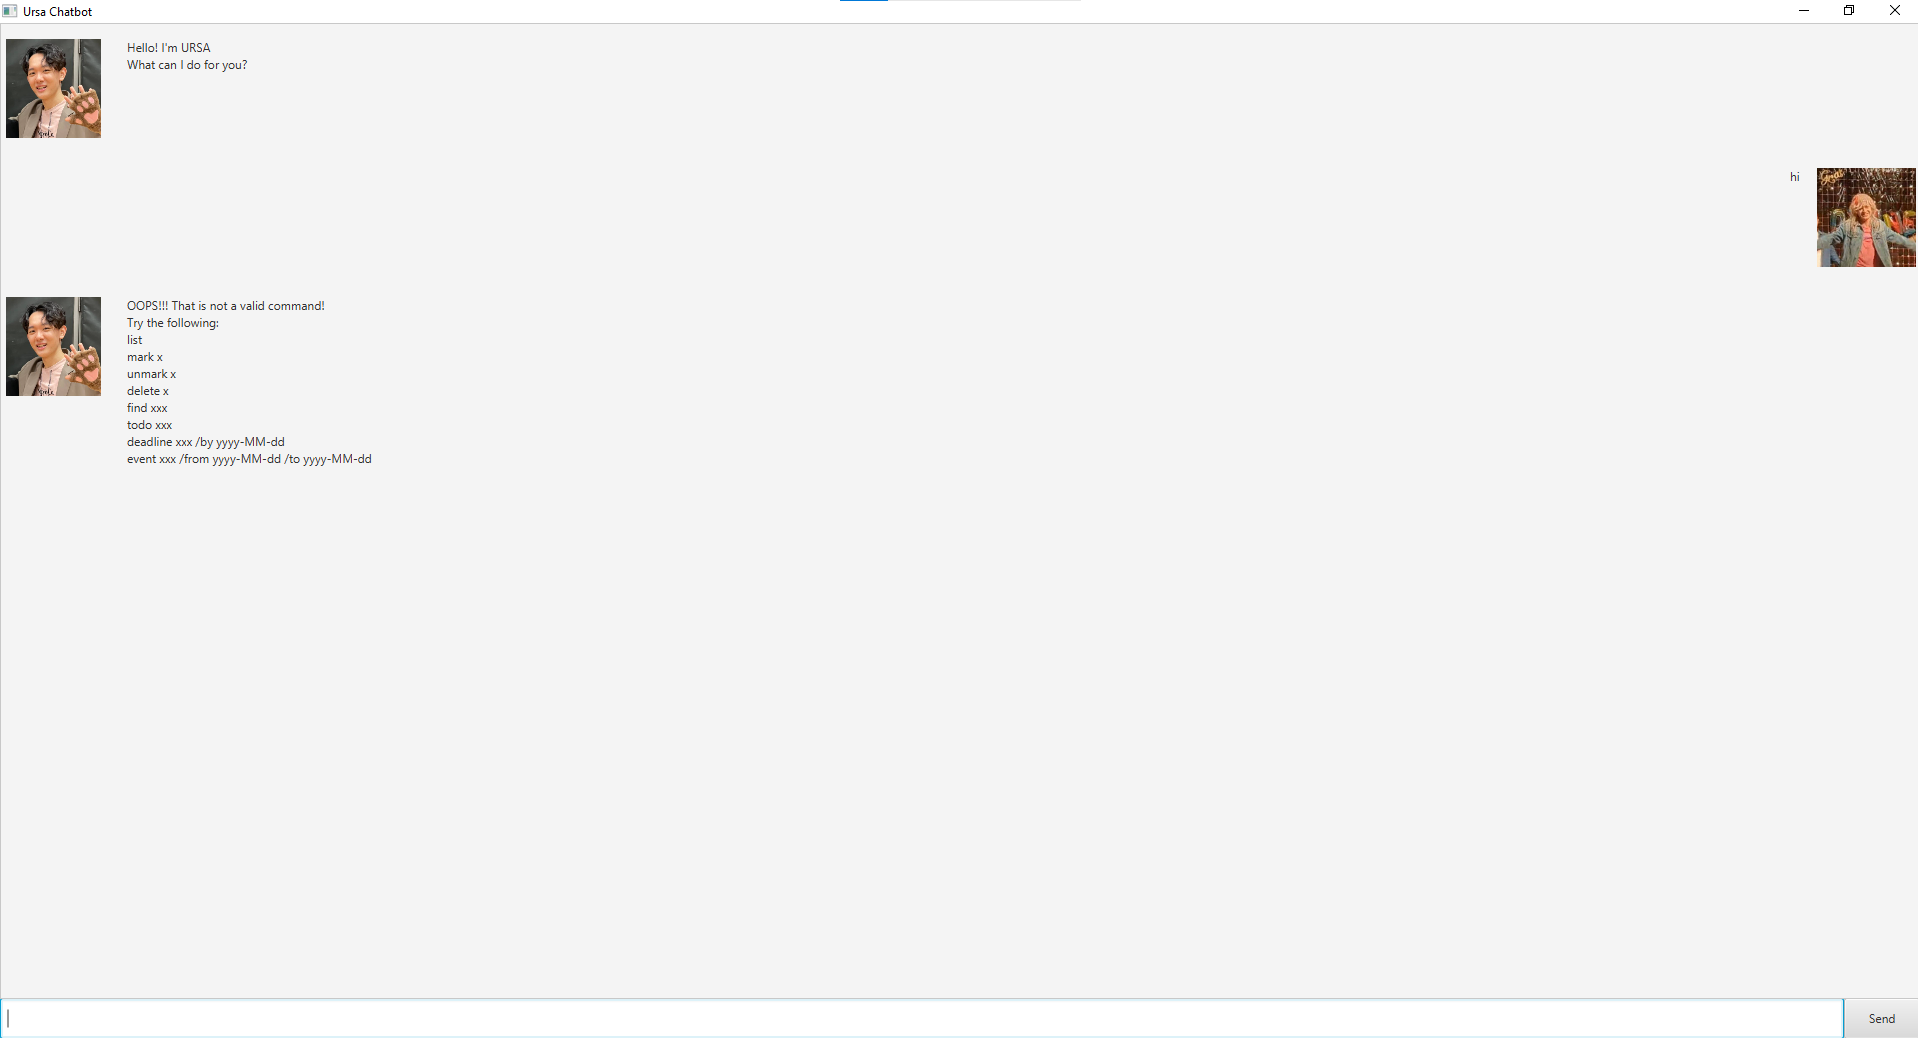
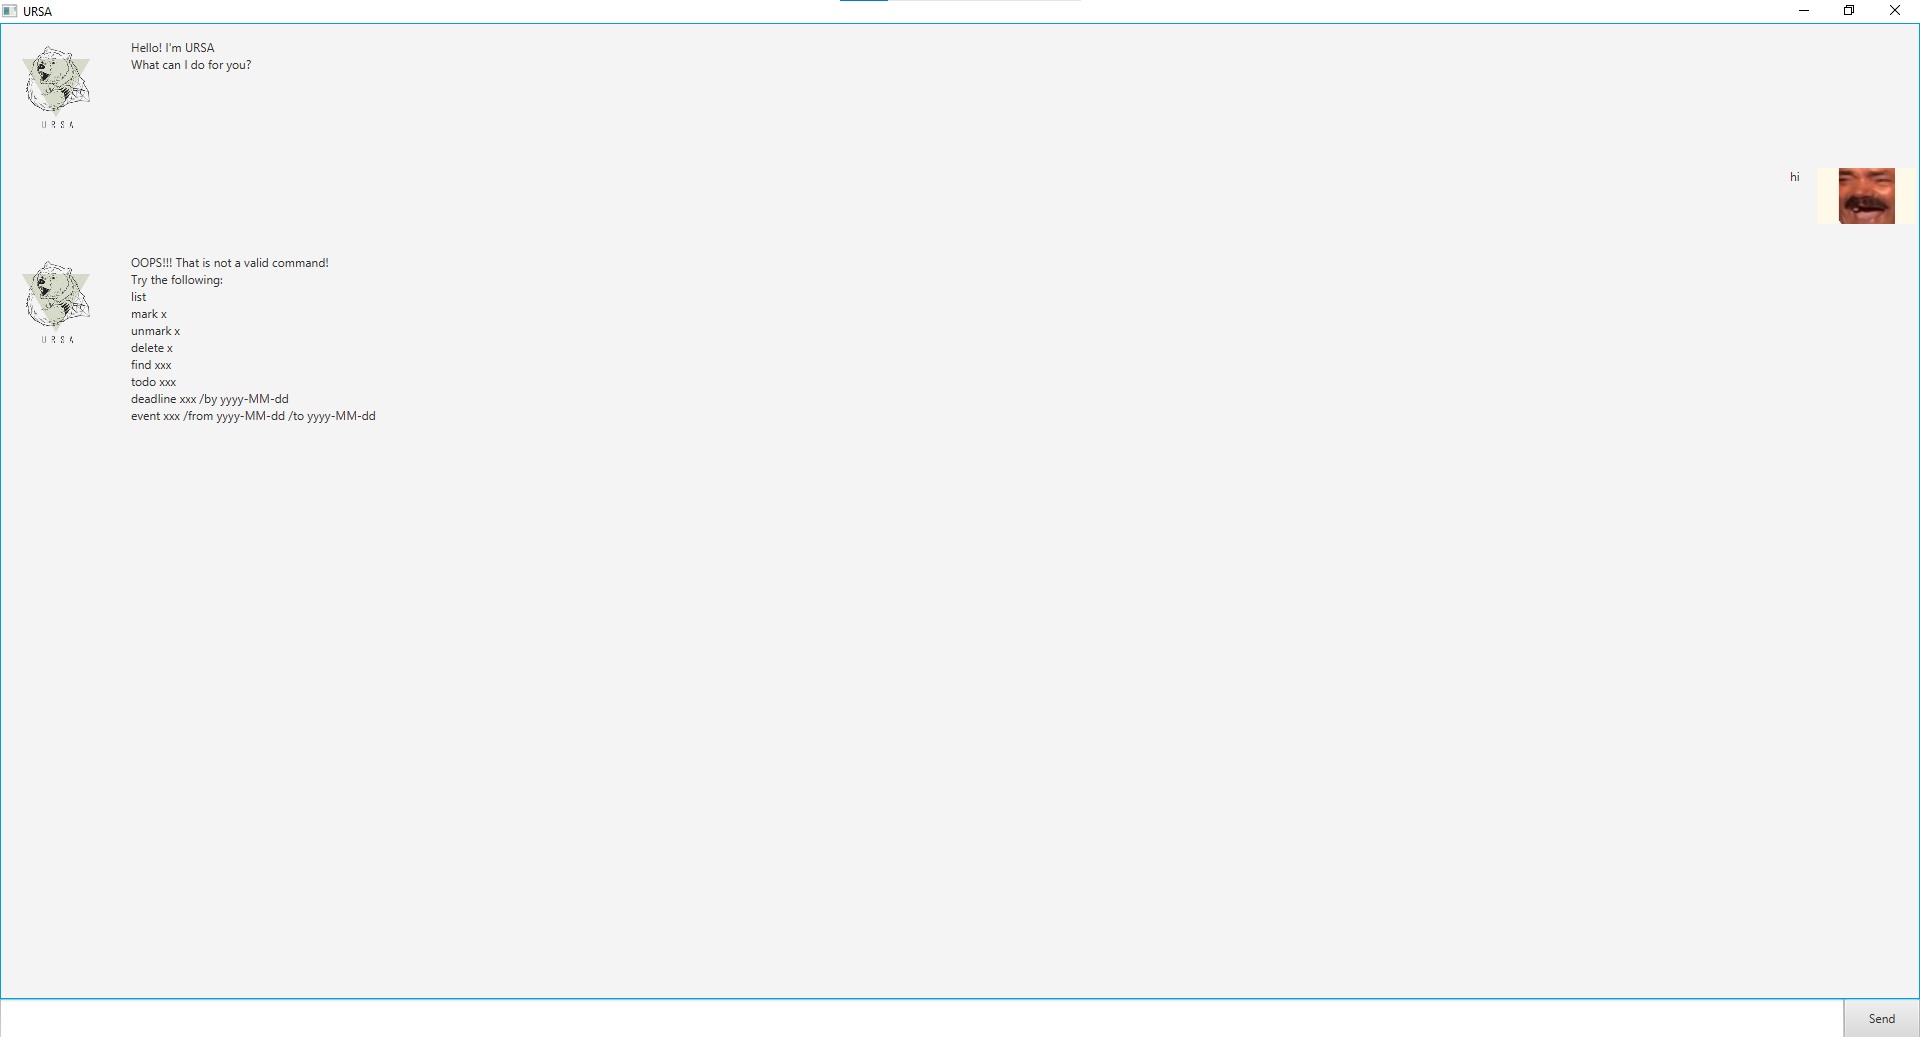
Update Ui.png and assert statements

diff --git a/src/main/java/duke/TaskList.java b/src/main/java/duke/TaskList.java
@@ -39,7 +39,7 @@ public class TaskList {
         int previousTasks = storageFill;
         tasks.remove(index);
         TaskList.storageFill--; // Update task count
-        assert previousTasks == storageFill++ : "Task list size should decrease by 1";
+        assert previousTasks == storageFill + 1 : "Task list size should decrease by 1";
     }
 
     /**
@@ -111,10 +111,13 @@ public class TaskList {
         int previousTasks = storageFill;
         tasks.add(task);
         storageFill++;
-        assert previousTasks == storageFill-- : "Task list size should increase by 1";
+        assert previousTasks == storageFill - 1 : "Task list size should increase by 1";
     }
 
     protected static boolean checkNoEventOverlap(LocalDate from, LocalDate to) {
+        if (tasks == null) {
+            return true;
+        }
         for (Task task: tasks) {
             if (task instanceof Event) {
                 Event event = (Event)task;
